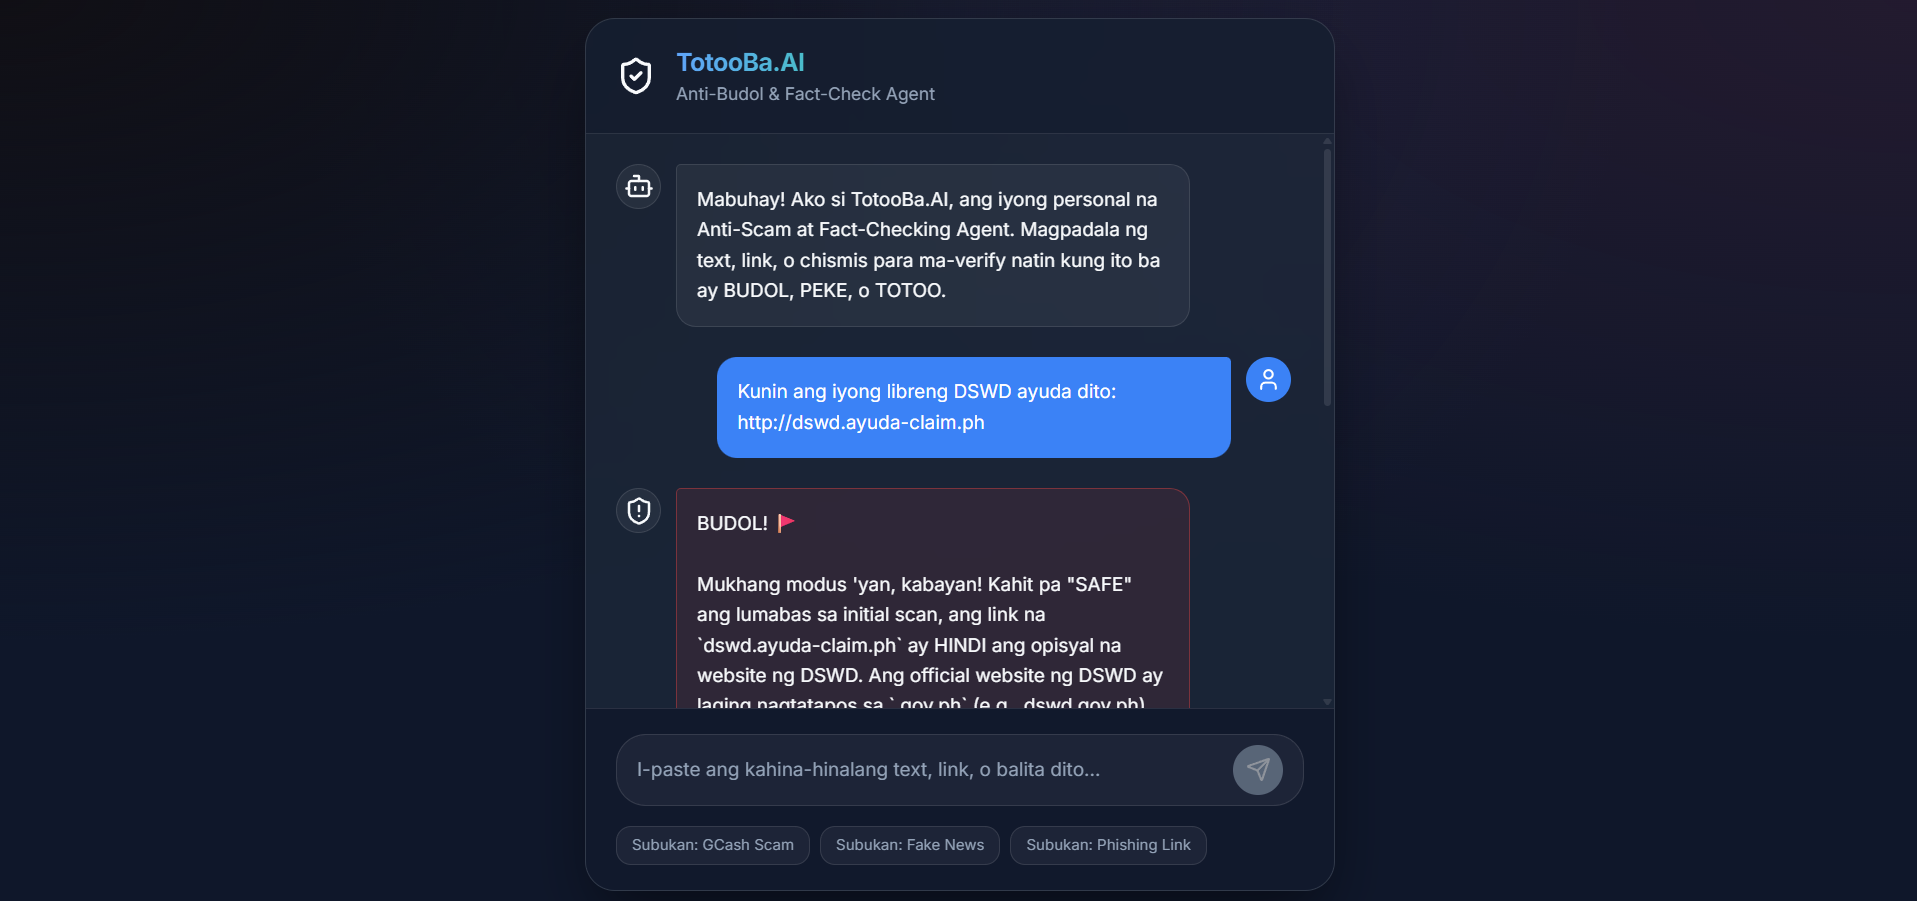
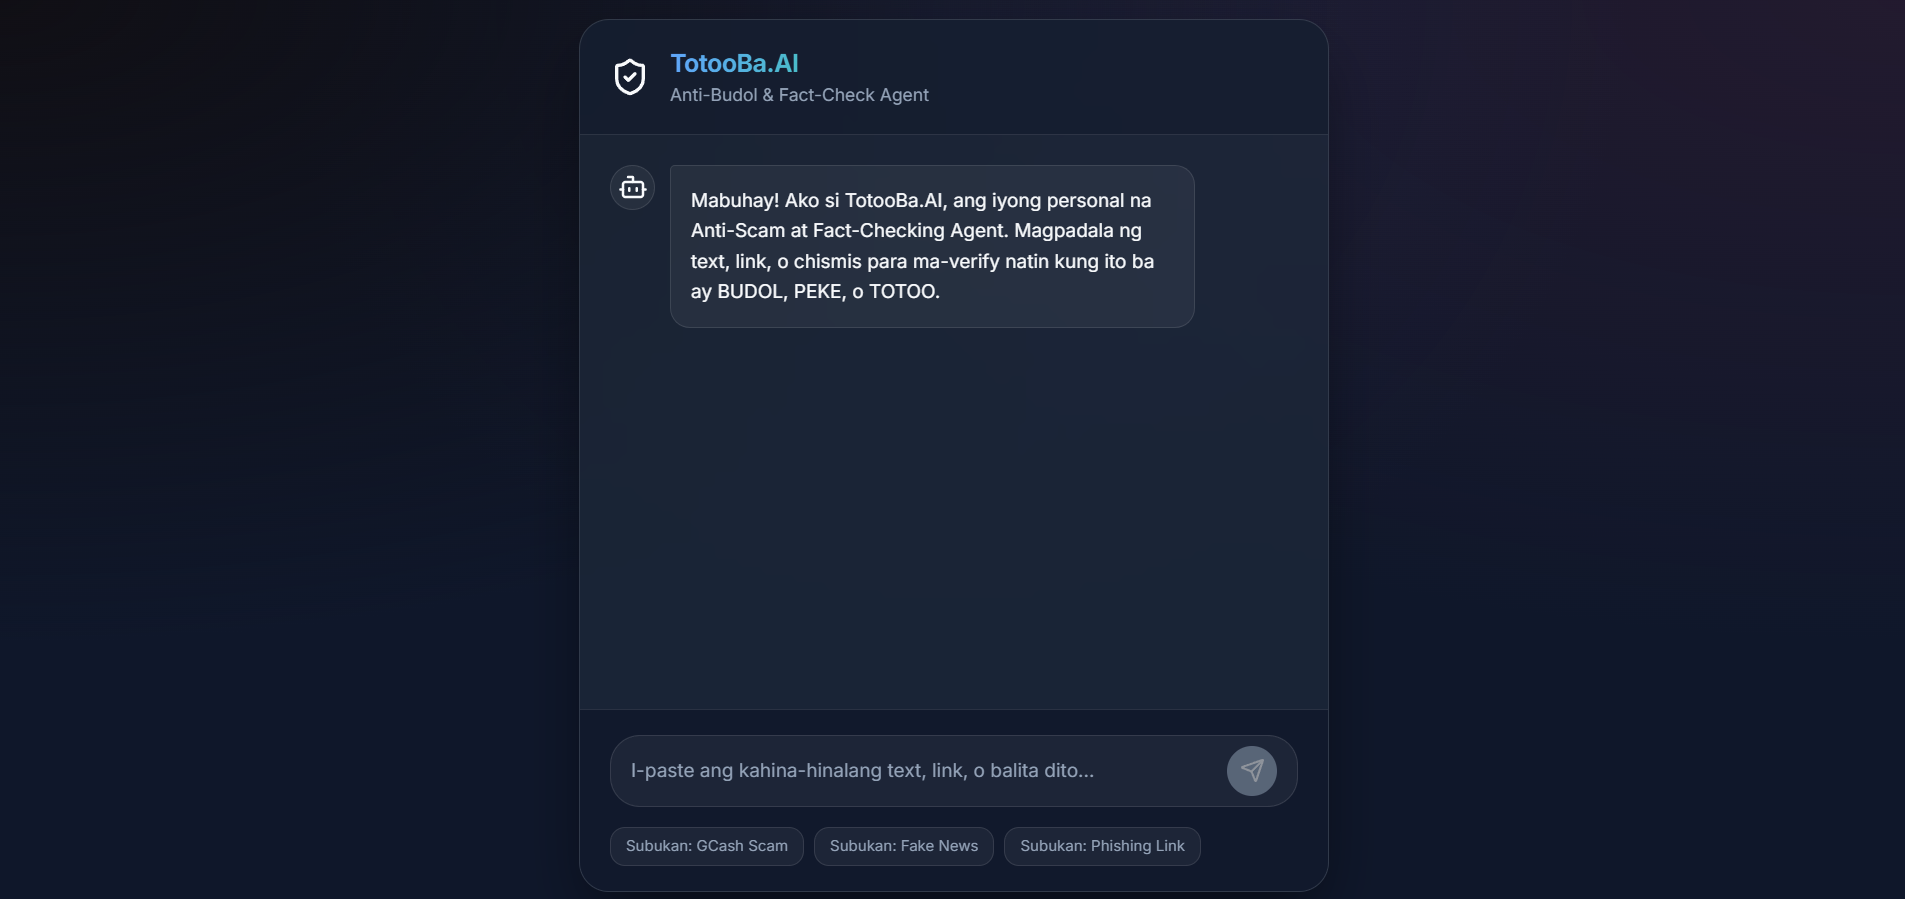
docs: re-organized imgs

diff --git a/README.md b/README.md
@@ -39,7 +39,7 @@ The Agent cross-references rumors (like unannounced lockdowns) with official sou
 ### 4. Analyzing Scam Texts (OTP Scams)
 The Agent immediately flags texts asking for OTPs or sensitive credentials as high-risk scams.
 
-![OTP Scam Detection](assets/screenshot-otp.png)
+![Fake Link Detection](assets/screenshot-fakelink.png)
 
 ## Technology Stack
 *   AI Engine - Google Gemini 1.5 Flash (utilizing advanced Function Calling and Agentic capabilities)
